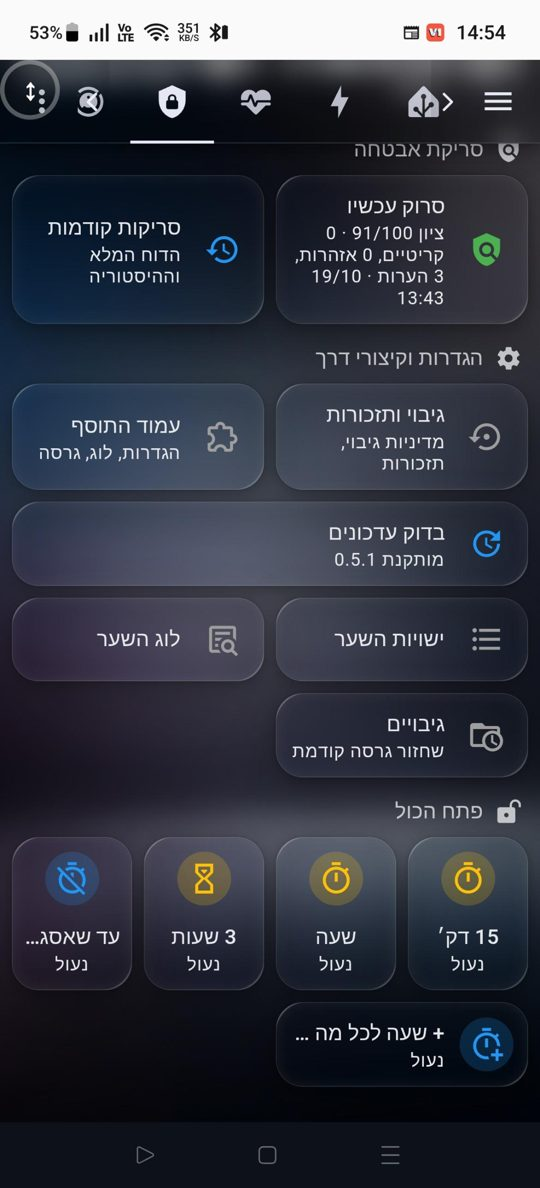
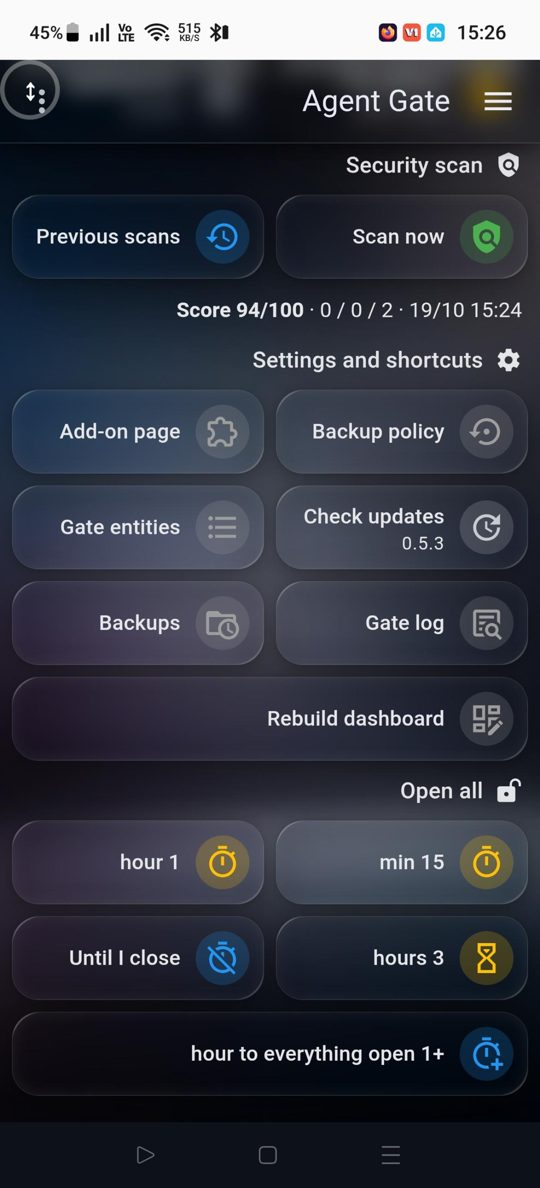
README: English dashboard screenshots
Claude-Session: https://claude.ai/code/session_01Mz6gtjcMSQPjqFHwfPb1qn

diff --git a/README.md b/README.md
@@ -27,8 +27,8 @@ score, shortcuts, and the "open everything" buttons at the bottom.
   <img src="docs/images/dashboard-bottom.jpg" width="300" alt="Agent Gate dashboard: scan, shortcuts and open-all buttons">
 </p>
 
-*Screenshots show the Hebrew dashboard; English is the default and every
-label is translated.*
+*Five mechanisms open on a timed window, score 94/100 after a scan. The same
+dashboard is available in Hebrew.*
 
 ## Requirements
 
